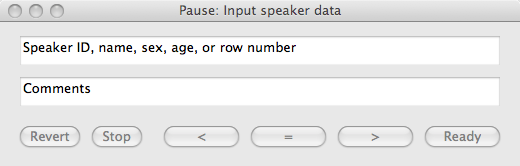
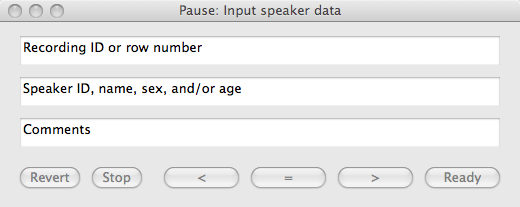
Added HTML files

diff --git a/HTML/NKI_TEVA.htm b/HTML/NKI_TEVA.htm
@@ -559,8 +559,8 @@ Adding information about a recording <p align=center>
 TEVA can keep a record of recordings. Click the <i>Speaker</i> button at the bottom 
 left of the <a href="#Overview_of_Main_page">Main page</a>. A window will open where you can enter an 
 identifier (name or code) and other information like sex, age, treatment etc. There is also 
-a field for more informal comments. The string before the first punctuation mark on the first line 
-of the window (the Speaker ID field) will be used internally to represent the ID code of the speaker. 
+a field for more informal comments. The top text field is an identifier for the recording, the next lower one 
+contains information about the speaker, ID, name, and so on. The bottom text field is for comments. 
 Click the <i>Ready</i> button when you have completed the input. You can change the text later if you like.</p>
 <h3>
 Reading a table with speaker information</h3>
@@ -569,8 +569,10 @@ In general, it is better to collect speaker information in a table beforehand.
 You can open such a table with the <i>Open</i> button in the <a href="#Overview_of_Main_page">Main page</a>, 
 or with the <i>Data</i> button in the <a href="#Overview_of_Configuration_page">Configuration page</a>. When opened,
 you will have to select a specific speaker or recording from the list. This is done using the <i>Speaker</i> button 
-on the <a href="#Overview_of_Main_page">Main page</a>. You can type in the ID code of the recording, or the line number in the 
-table, and click <i>Ready</i>. Or you can step through all the records with the next (&gt;) and previous (&lt;) buttons.</p>
+on the <a href="#Overview_of_Main_page">Main page</a>. In the top text field, you can type in the ID code of the recording, 
+or the line number in the table, and click <i>Ready</i>. Or you can step through all the records with the next (&gt;) 
+and previous (&lt;) buttons. If you enter a non-existing recording ID in the top, ID, field, a new record is 
+added to the table. You can remove the current record by completely emptying the top, record ID field.</p>
 <p>
 You can save changes to the list with the <i>Save</i> button in the 
 <a href="#Overview_of_Configuration_page">Configuration page</a>. You can close and purge the current table with the 
@@ -820,6 +822,12 @@ three files and two directories. The files are <i>Sample3</i>.odt and <i>Speaker
 There is also a copy of the recording in the directory. The two subdirectories contain the graphics, one is 
 called <i>eps</i> and contains the graphics in <i>eps</i> format, the other is called either <i>wmf</i> (Windows) or <i>pdf</i> (OSX) 
 and contains the graphics in <i>wmf</i> or <i>pdf</i> format.</p>
+<h3>
+Next:</h3>
+<ul>
+<li>
+&nbsp;<a href="#Example_evaluating_AST">Example evaluating AST</a>
+</ul>
 <p align=center>
 <a href="http://www.fon.hum.uva.nl/IFA-SpokenLanguageCorpora/NKIcorpora/NKI_TEVA/TEVA/HTML/Save_screenshotTop.png" target="_blank"><img width="25%" src="Save_screenshotTop.png"></a>
 <a href="http://www.fon.hum.uva.nl/IFA-SpokenLanguageCorpora/NKIcorpora/NKI_TEVA/TEVA/HTML/Save_screenshotBottom.png" target="_blank"><img width="25%" src="Save_screenshotBottom.png"></a>
@@ -842,22 +850,31 @@ A tutorial example of how to evaluate the Acoustic Signal Typing on a sample of 
 <h3>
 Download and open the example corpus</h3>
 <p>
-Download the TEVA_AST_example.zip file from [To be announced] and extra it to a convenient location. 
+Download the TEVA_AST_example.zip file from [To be announced] and extract it to a convenient location. 
 Open TEVA and then click the <i>Open</i> button on the <a href="#Overview_of_Main_page">Main page</a>. Navigate into the 
 map you just downloaded and select <i>SignaltypeVoiceSamples.Table</i>. Then click <i>Choose</i>. The 
 <a href="#Overview_of_Main_page">Main page</a> now contains a display of an empty sound. <i>SignaltypeVoiceSamples.Table</i> 
 contains data on a number of recordings. You must now select the recording you want to use.</p> <p align=center>
 <a href="http://www.fon.hum.uva.nl/IFA-SpokenLanguageCorpora/NKIcorpora/NKI_TEVA/TEVA/HTML/Speaker_screenshot.png" target="_blank"><img width="25%" src="Speaker_screenshot.png" VSPACE=10></a>
 </h3></p>
+<h3>
+Select speakers</h3>
 <p>
 Click on the <i>Speaker</i> button (lower left). A new window will open. Click on the <b>=</b> button. 
 You now see a table with 5 columns and 4 lines (enlarge the window if you do not see all of it). The headings 
 read <i>ID</i>, <i>Text</i>, <i>Description</i>, <i>Audio</i>, and <i>AST</i>. Except for the <i>Description</i> column, all columns contain 
-metadata for the recordings mentioned in the <i>Audio</i> column.</p> <p align=center>
+metadata for the recordings mentioned in the <i>Audio</i> column. Close the Info window.</p> <p align=center>
 <a href="http://www.fon.hum.uva.nl/IFA-SpokenLanguageCorpora/NKIcorpora/NKI_TEVA/TEVA/HTML/SpeakerInfo_screenshot.png" target="_blank"><img width="50%" src="SpeakerInfo_screenshot.png" VSPACE=10></a>
 </p>
+<p>
+The Speaker window has three text fields. The top one contains the ID of the recording, the next field 
+a short description of the speaker (e.g., name or ID, age, sex, etc.). You can change this field, or even create 
+it for a newly recorded voice. If you enter an ID or line number, the corresponding speaker from the Info window 
+will be read and displayed in TEVA. If you empty the ID field completely, the current record will be removed from 
+the table.</p>
 <h3>Links to this page</h3>
 <ul>
+<li><a href="#Saving_a_report">Saving a report</a>
 <li><a href="#TEVA_Tutorials">TEVA Tutorials</a>
 </ul>
 <hr>

diff --git a/HTML/Adding_speaker_information.html b/HTML/Adding_speaker_information.html
@@ -26,8 +26,8 @@ Adding information about a recording <p align=center>
 TEVA can keep a record of recordings. Click the <i>Speaker</i> button at the bottom 
 left of the <a href="Overview_of_Main_page.html">Main page</a>. A window will open where you can enter an 
 identifier (name or code) and other information like sex, age, treatment etc. There is also 
-a field for more informal comments. The string before the first punctuation mark on the first line 
-of the window (the Speaker ID field) will be used internally to represent the ID code of the speaker. 
+a field for more informal comments. The top text field is an identifier for the recording, the next lower one 
+contains information about the speaker, ID, name, and so on. The bottom text field is for comments. 
 Click the <i>Ready</i> button when you have completed the input. You can change the text later if you like.</p>
 <h3>
 Reading a table with speaker information</h3>
@@ -36,8 +36,10 @@ In general, it is better to collect speaker information in a table beforehand.
 You can open such a table with the <i>Open</i> button in the <a href="Overview_of_Main_page.html">Main page</a>, 
 or with the <i>Data</i> button in the <a href="Overview_of_Configuration_page.html">Configuration page</a>. When opened,
 you will have to select a specific speaker or recording from the list. This is done using the <i>Speaker</i> button 
-on the <a href="Overview_of_Main_page.html">Main page</a>. You can type in the ID code of the recording, or the line number in the 
-table, and click <i>Ready</i>. Or you can step through all the records with the next (&gt;) and previous (&lt;) buttons.</p>
+on the <a href="Overview_of_Main_page.html">Main page</a>. In the top text field, you can type in the ID code of the recording, 
+or the line number in the table, and click <i>Ready</i>. Or you can step through all the records with the next (&gt;) 
+and previous (&lt;) buttons. If you enter a non-existing recording ID in the top, ID, field, a new record is 
+added to the table. You can remove the current record by completely emptying the top, record ID field.</p>
 <p>
 You can save changes to the list with the <i>Save</i> button in the 
 <a href="Overview_of_Configuration_page.html">Configuration page</a>. You can close and purge the current table with the 

diff --git a/HTML/Example_evaluating_AST.html b/HTML/Example_evaluating_AST.html
@@ -9,22 +9,31 @@ A tutorial example of how to evaluate the Acoustic Signal Typing on a sample of 
 <h3>
 Download and open the example corpus</h3>
 <p>
-Download the TEVA_AST_example.zip file from [To be announced] and extra it to a convenient location. 
+Download the TEVA_AST_example.zip file from [To be announced] and extract it to a convenient location. 
 Open TEVA and then click the <i>Open</i> button on the <a href="Overview_of_Main_page.html">Main page</a>. Navigate into the 
 map you just downloaded and select <i>SignaltypeVoiceSamples.Table</i>. Then click <i>Choose</i>. The 
 <a href="Overview_of_Main_page.html">Main page</a> now contains a display of an empty sound. <i>SignaltypeVoiceSamples.Table</i> 
 contains data on a number of recordings. You must now select the recording you want to use.</p> <p align=center>
 <a href="Speaker_screenshot.png" target="_blank"><img width="25%" src="Speaker_screenshot.png" VSPACE=10></a>
 </h3></p>
+<h3>
+Select speakers</h3>
 <p>
 Click on the <i>Speaker</i> button (lower left). A new window will open. Click on the <b>=</b> button. 
 You now see a table with 5 columns and 4 lines (enlarge the window if you do not see all of it). The headings 
 read <i>ID</i>, <i>Text</i>, <i>Description</i>, <i>Audio</i>, and <i>AST</i>. Except for the <i>Description</i> column, all columns contain 
-metadata for the recordings mentioned in the <i>Audio</i> column.</p> <p align=center>
+metadata for the recordings mentioned in the <i>Audio</i> column. Close the Info window.</p> <p align=center>
 <a href="SpeakerInfo_screenshot.png" target="_blank"><img width="50%" src="SpeakerInfo_screenshot.png" VSPACE=10></a>
 </p>
+<p>
+The Speaker window has three text fields. The top one contains the ID of the recording, the next field 
+a short description of the speaker (e.g., name or ID, age, sex, etc.). You can change this field, or even create 
+it for a newly recorded voice. If you enter an ID or line number, the corresponding speaker from the Info window 
+will be read and displayed in TEVA. If you empty the ID field completely, the current record will be removed from 
+the table.</p>
 <h3>Links to this page</h3>
 <ul>
+<li><a href="Saving_a_report.html">Saving a report</a>
 <li><a href="TEVA_Tutorials.html">TEVA Tutorials</a>
 </ul>
 <hr>

diff --git a/HTML/Saving_a_report.html b/HTML/Saving_a_report.html
@@ -49,6 +49,12 @@ three files and two directories. The files are <i>Sample3</i>.odt and <i>Speaker
 There is also a copy of the recording in the directory. The two subdirectories contain the graphics, one is 
 called <i>eps</i> and contains the graphics in <i>eps</i> format, the other is called either <i>wmf</i> (Windows) or <i>pdf</i> (OSX) 
 and contains the graphics in <i>wmf</i> or <i>pdf</i> format.</p>
+<h3>
+Next:</h3>
+<ul>
+<li>
+&nbsp;<a href="Example_evaluating_AST.html">Example evaluating AST</a>
+</ul>
 <p align=center>
 <a href="Save_screenshotTop.png" target="_blank"><img width="25%" src="Save_screenshotTop.png"></a>
 <a href="Save_screenshotBottom.png" target="_blank"><img width="25%" src="Save_screenshotBottom.png"></a>
